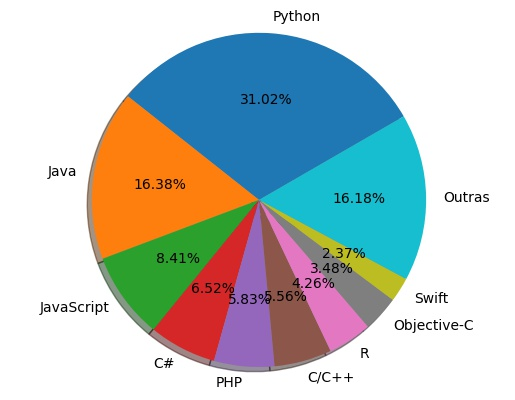
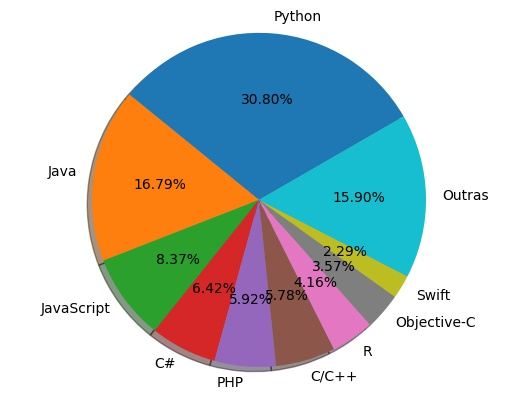
Build site at 2020-11-05 14:22:10 UTC

diff --git a/docs/popularidade/index.html b/docs/popularidade/index.html
@@ -1412,74 +1412,74 @@
     <tr>
       <td style="text-align: center">1</td>
       <td style="text-align: left">Python</td>
-      <td style="text-align: center">31.02</td>
-      <td style="text-align: center">+2.2</td>
+      <td style="text-align: center">30.8</td>
+      <td style="text-align: center">+1.8</td>
     </tr>
     <tr>
       <td style="text-align: center">2</td>
       <td style="text-align: left">Java</td>
-      <td style="text-align: center">16.38</td>
-      <td style="text-align: center">-2.8</td>
+      <td style="text-align: center">16.79</td>
+      <td style="text-align: center">-2.3</td>
     </tr>
     <tr>
       <td style="text-align: center">3</td>
       <td style="text-align: left">JavaScript</td>
-      <td style="text-align: center">8.41</td>
-      <td style="text-align: center">+0.4</td>
+      <td style="text-align: center">8.37</td>
+      <td style="text-align: center">+0.3</td>
     </tr>
     <tr>
       <td style="text-align: center">4</td>
       <td style="text-align: left">C#</td>
-      <td style="text-align: center">6.52</td>
-      <td style="text-align: center">-0.6</td>
+      <td style="text-align: center">6.42</td>
+      <td style="text-align: center">-0.9</td>
     </tr>
     <tr>
       <td style="text-align: center">5</td>
       <td style="text-align: left">PHP</td>
-      <td style="text-align: center">5.83</td>
-      <td style="text-align: center">-0.4</td>
+      <td style="text-align: center">5.92</td>
+      <td style="text-align: center">-0.2</td>
     </tr>
     <tr>
       <td style="text-align: center">6</td>
       <td style="text-align: left">C/C++</td>
-      <td style="text-align: center">5.56</td>
-      <td style="text-align: center">-0.4</td>
+      <td style="text-align: center">5.78</td>
+      <td style="text-align: center">-0.2</td>
     </tr>
     <tr>
       <td style="text-align: center">7</td>
       <td style="text-align: left">R</td>
-      <td style="text-align: center">4.26</td>
+      <td style="text-align: center">4.16</td>
       <td style="text-align: center">+0.4</td>
     </tr>
     <tr>
       <td style="text-align: center">8</td>
       <td style="text-align: left">Objective-C</td>
-      <td style="text-align: center">3.48</td>
-      <td style="text-align: center">+0.8</td>
+      <td style="text-align: center">3.57</td>
+      <td style="text-align: center">+1.0</td>
     </tr>
     <tr>
       <td style="text-align: center">9</td>
       <td style="text-align: left">Swift</td>
-      <td style="text-align: center">2.37</td>
-      <td style="text-align: center">-0.1</td>
+      <td style="text-align: center">2.29</td>
+      <td style="text-align: center">-0.2</td>
     </tr>
     <tr>
       <td style="text-align: center">10</td>
       <td style="text-align: left">TypeScript</td>
-      <td style="text-align: center">1.9</td>
-      <td style="text-align: center">+0.1</td>
+      <td style="text-align: center">1.84</td>
+      <td style="text-align: center">-0.0</td>
     </tr>
     <tr>
       <td style="text-align: center">11</td>
       <td style="text-align: left">Matlab</td>
-      <td style="text-align: center">1.67</td>
+      <td style="text-align: center">1.65</td>
       <td style="text-align: center">-0.1</td>
     </tr>
     <tr>
       <td style="text-align: center">12</td>
       <td style="text-align: left">Kotlin</td>
-      <td style="text-align: center">1.66</td>
-      <td style="text-align: center">+0.1</td>
+      <td style="text-align: center">1.64</td>
+      <td style="text-align: center">-0.0</td>
     </tr>
     <tr>
       <td style="text-align: center">13</td>
@@ -1490,26 +1490,26 @@
     <tr>
       <td style="text-align: center">14</td>
       <td style="text-align: left">Ruby</td>
-      <td style="text-align: center">1.17</td>
-      <td style="text-align: center">-0.3</td>
+      <td style="text-align: center">1.2</td>
+      <td style="text-align: center">-0.2</td>
     </tr>
     <tr>
       <td style="text-align: center">15</td>
       <td style="text-align: left">VBA</td>
-      <td style="text-align: center">1.12</td>
+      <td style="text-align: center">1.11</td>
       <td style="text-align: center">-0.2</td>
     </tr>
     <tr>
       <td style="text-align: center">16</td>
       <td style="text-align: left">Rust</td>
-      <td style="text-align: center">1.01</td>
-      <td style="text-align: center">+0.4</td>
+      <td style="text-align: center">0.97</td>
+      <td style="text-align: center">+0.3</td>
     </tr>
     <tr>
       <td style="text-align: center">17</td>
       <td style="text-align: left">Scala</td>
-      <td style="text-align: center">0.95</td>
-      <td style="text-align: center">-0.1</td>
+      <td style="text-align: center">0.87</td>
+      <td style="text-align: center">-0.2</td>
     </tr>
     <tr>
       <td style="text-align: center">18</td>
@@ -1519,68 +1519,68 @@
     </tr>
     <tr>
       <td style="text-align: center">19</td>
-      <td style="text-align: left">Dart</td>
-      <td style="text-align: center">0.61</td>
-      <td style="text-align: center">+0.2</td>
+      <td style="text-align: left">Ada</td>
+      <td style="text-align: center">0.62</td>
+      <td style="text-align: center">+0.3</td>
     </tr>
     <tr>
       <td style="text-align: center">20</td>
-      <td style="text-align: left">Ada</td>
-      <td style="text-align: center">0.59</td>
+      <td style="text-align: left">Lua</td>
+      <td style="text-align: center">0.58</td>
       <td style="text-align: center">+0.2</td>
     </tr>
     <tr>
       <td style="text-align: center">21</td>
-      <td style="text-align: left">Lua</td>
-      <td style="text-align: center">0.52</td>
+      <td style="text-align: left">Dart</td>
+      <td style="text-align: center">0.57</td>
       <td style="text-align: center">+0.2</td>
     </tr>
     <tr>
       <td style="text-align: center">22</td>
       <td style="text-align: left">Perl</td>
-      <td style="text-align: center">0.48</td>
+      <td style="text-align: center">0.47</td>
       <td style="text-align: center">-0.1</td>
     </tr>
     <tr>
       <td style="text-align: center">23</td>
-      <td style="text-align: left">Groovy</td>
+      <td style="text-align: left">Abap</td>
       <td style="text-align: center">0.45</td>
       <td style="text-align: center">-0.1</td>
     </tr>
     <tr>
       <td style="text-align: center">24</td>
-      <td style="text-align: left">Julia</td>
+      <td style="text-align: left">Groovy</td>
       <td style="text-align: center">0.43</td>
-      <td style="text-align: center">+0.2</td>
+      <td style="text-align: center">-0.0</td>
     </tr>
     <tr>
       <td style="text-align: center">25</td>
-      <td style="text-align: left">Abap</td>
+      <td style="text-align: left">Julia</td>
       <td style="text-align: center">0.41</td>
-      <td style="text-align: center">-0.1</td>
+      <td style="text-align: center">+0.1</td>
     </tr>
     <tr>
       <td style="text-align: center">26</td>
       <td style="text-align: left">Cobol</td>
-      <td style="text-align: center">0.36</td>
-      <td style="text-align: center">+0.0</td>
+      <td style="text-align: center">0.32</td>
+      <td style="text-align: center">-0.0</td>
     </tr>
     <tr>
       <td style="text-align: center">27</td>
       <td style="text-align: left">Haskell</td>
-      <td style="text-align: center">0.33</td>
+      <td style="text-align: center">0.29</td>
       <td style="text-align: center">+0.0</td>
     </tr>
     <tr>
       <td style="text-align: center">28</td>
       <td style="text-align: left">Delphi</td>
-      <td style="text-align: center">0.31</td>
-      <td style="text-align: center">+0.1</td>
+      <td style="text-align: center">0.27</td>
+      <td style="text-align: center">+0.0</td>
     </tr>
   </tbody>
 </table>
 
-<p class="small"><strong><em>Mundialmente em outubro de 2020, comparado a um ano antes</em></strong></p>
+<p class="small"><strong><em>Mundialmente em novembro de 2020, comparado a um ano antes</em></strong></p>
 
 
   
@@ -1588,7 +1588,7 @@
 
 <hr>
 <p class="small">
-  <i> Página atualizada em 05/10/20</i>
+  <i> Página atualizada em 05/11/20</i>
 </p>
 
 

diff --git a/docs/material/tema7/03-sistlineares.html b/docs/material/tema7/03-sistlineares.html
@@ -32,7 +32,7 @@
 <meta property="og:url" content="https://computeel.org/LOM3260/material/tema7/03-sistlineares.html" />
 <meta property="og:site_name" content="LOM3260" />
 <script type="application/ld+json">
-{"dateModified":"2020-06-07T13:06:30-03:00","@type":"WebPage","headline":"Sistemas de equações lineares","url":"https://computeel.org/LOM3260/material/tema7/03-sistlineares.html","author":{"@type":"Person","name":"Luiz T. F. Eleno"},"description":"Computação Científica em Python - uma disciplina do curso de Engenharia Física da Escola de Engenharia de Lorena da Universidade de São Paulo - EEL USP","@context":"https://schema.org"}</script>
+{"dateModified":"2020-11-05T11:19:27-03:00","@type":"WebPage","headline":"Sistemas de equações lineares","url":"https://computeel.org/LOM3260/material/tema7/03-sistlineares.html","author":{"@type":"Person","name":"Luiz T. F. Eleno"},"description":"Computação Científica em Python - uma disciplina do curso de Engenharia Física da Escola de Engenharia de Lorena da Universidade de São Paulo - EEL USP","@context":"https://schema.org"}</script>
 <!-- End Jekyll SEO tag -->
 
   

diff --git a/docs/index.html b/docs/index.html
@@ -1433,7 +1433,7 @@
 
 </div>
 
-<p class="small"><strong><em>Última atualização: 05/11/2020 11:19:15</em></strong></p>
+<p class="small"><strong><em>Última atualização: 05/11/2020 11:21:57</em></strong></p>
 
 
 

diff --git a/material/sobre/01-introdução.md b/material/sobre/01-introdução.md
@@ -4,7 +4,7 @@ parent: sobre
 nav_order: 0
 tags: [introdução, pypl, python, popularity]
 permalink: /popularidade/
-timestamp: '05/10/20'
+timestamp: '05/11/20'
 ---
 
 Python é a linguagem mais popular e a que mais cresce mundialmente
@@ -18,34 +18,34 @@ O **índice PYPL** (*PopularitY of Programming Language*) é obtido analisando a
 
 | Posição	| Linguagem |	Fatia (%)	| Tendência (%) |
 |:-------:|:--------- |:-----:|:---------:|
-| 1 | Python |          31.02  | +2.2  |
-| 2 | Java |          16.38  | -2.8  |
-| 3 | JavaScript |          8.41  | +0.4  |
-| 4 | C# |          6.52  | -0.6  |
-| 5 | PHP |          5.83  | -0.4  |
-| 6 | C/C++ |          5.56  | -0.4  |
-| 7 | R |          4.26  | +0.4  |
-| 8 | Objective-C |          3.48  | +0.8  |
-| 9 | Swift |          2.37  | -0.1  |
-| 10 | TypeScript |          1.9  | +0.1  |
-| 11 | Matlab |          1.67  | -0.1  |
-| 12 | Kotlin |          1.66  | +0.1  |
+| 1 | Python |          30.8  | +1.8  |
+| 2 | Java |          16.79  | -2.3  |
+| 3 | JavaScript |          8.37  | +0.3  |
+| 4 | C# |          6.42  | -0.9  |
+| 5 | PHP |          5.92  | -0.2  |
+| 6 | C/C++ |          5.78  | -0.2  |
+| 7 | R |          4.16  | +0.4  |
+| 8 | Objective-C |          3.57  | +1.0  |
+| 9 | Swift |          2.29  | -0.2  |
+| 10 | TypeScript |          1.84  | -0.0  |
+| 11 | Matlab |          1.65  | -0.1  |
+| 12 | Kotlin |          1.64  | -0.0  |
 | 13 | Go |          1.43  | +0.2  |
-| 14 | Ruby |          1.17  | -0.3  |
-| 15 | VBA |          1.12  | -0.2  |
-| 16 | Rust |          1.01  | +0.4  |
-| 17 | Scala |          0.95  | -0.1  |
+| 14 | Ruby |          1.2  | -0.2  |
+| 15 | VBA |          1.11  | -0.2  |
+| 16 | Rust |          0.97  | +0.3  |
+| 17 | Scala |          0.87  | -0.2  |
 | 18 | Visual Basic |          0.78  | -0.2  |
-| 19 | Dart |          0.61  | +0.2  |
-| 20 | Ada |          0.59  | +0.2  |
-| 21 | Lua |          0.52  | +0.2  |
-| 22 | Perl |          0.48  | -0.1  |
-| 23 | Groovy |          0.45  | -0.1  |
-| 24 | Julia |          0.43  | +0.2  |
-| 25 | Abap |          0.41  | -0.1  |
-| 26 | Cobol |          0.36  | +0.0  |
-| 27 | Haskell |          0.33  | +0.0  |
-| 28 | Delphi |          0.31  | +0.1  |
+| 19 | Ada |          0.62  | +0.3  |
+| 20 | Lua |          0.58  | +0.2  |
+| 21 | Dart |          0.57  | +0.2  |
+| 22 | Perl |          0.47  | -0.1  |
+| 23 | Abap |          0.45  | -0.1  |
+| 24 | Groovy |          0.43  | -0.0  |
+| 25 | Julia |          0.41  | +0.1  |
+| 26 | Cobol |          0.32  | -0.0  |
+| 27 | Haskell |          0.29  | +0.0  |
+| 28 | Delphi |          0.27  | +0.0  |
 
-***Mundialmente em outubro de 2020, comparado a um ano antes***
+***Mundialmente em novembro de 2020, comparado a um ano antes***
 {: .small}
